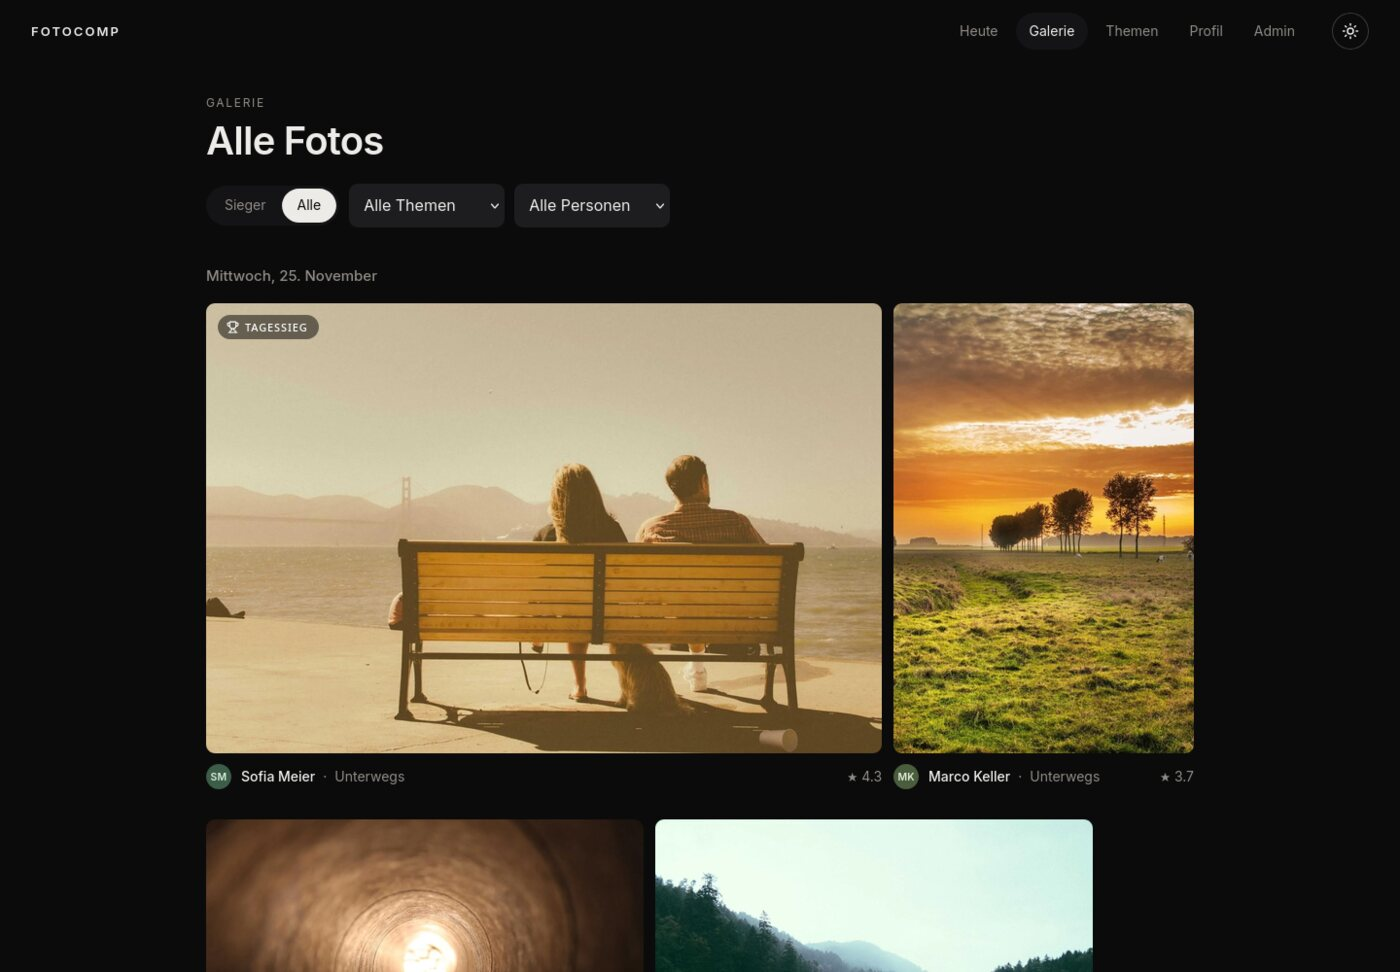
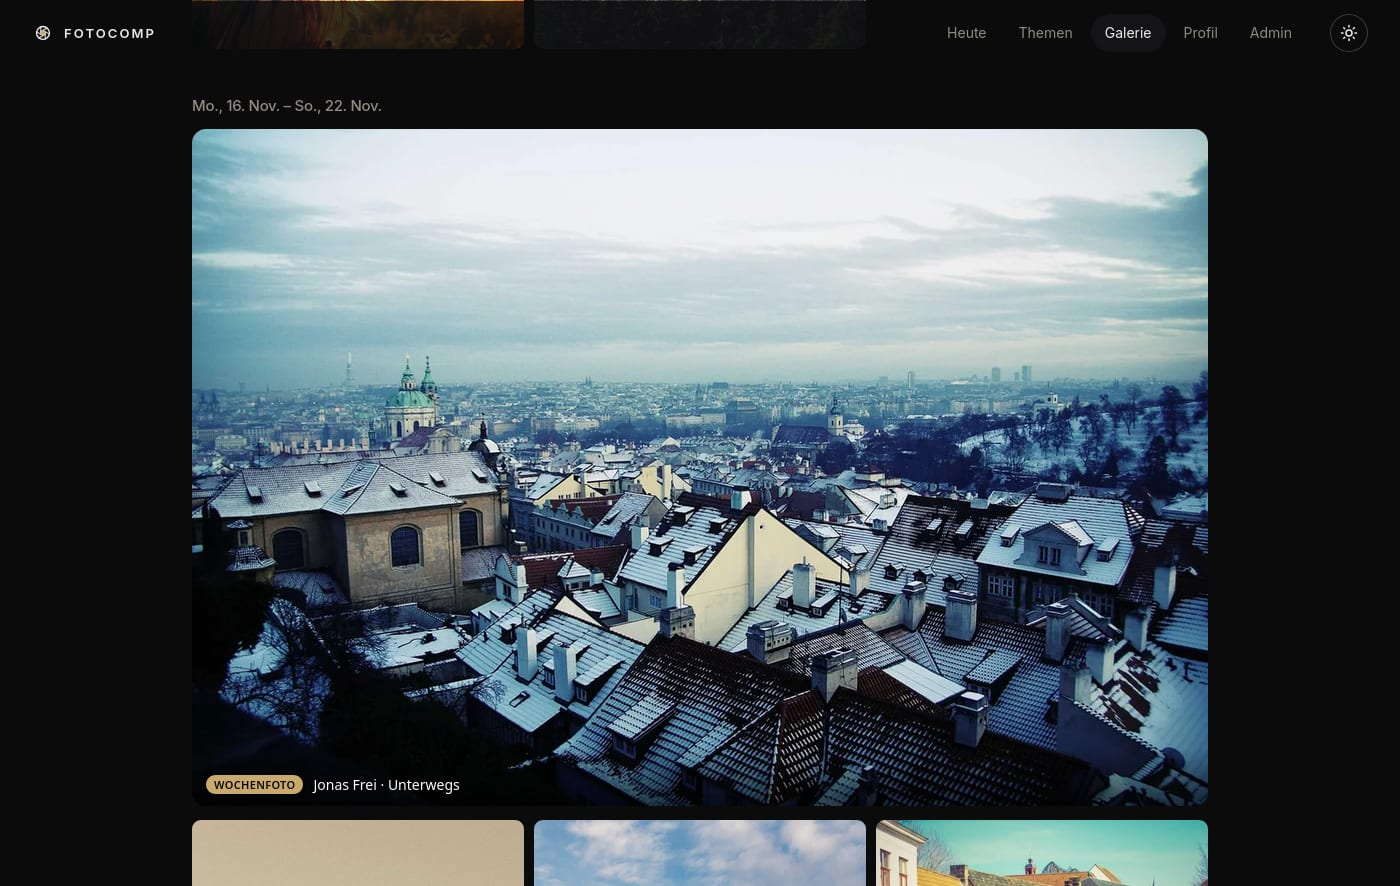
README und Screenshots zur neuen Benutzerführung

diff --git a/README.md b/README.md
@@ -6,12 +6,12 @@ Fotocomp ist eine kleine Web-App, die du selbst betreibst, zum Beispiel auf eine
 
 Das Ziel: regelmässig fotografieren, voneinander lernen und dabei Spass haben. Ohne Werbung, ohne Algorithmus, ohne dass eure Fotos irgendwo anders landen.
 
-![Galerie mit den Tagessiegern](docs/screenshots/galerie.jpg)
+![Galerie mit dem Wochenfoto und den schönsten Fotos](docs/screenshots/galerie.jpg)
 
 <p align="center">
-  <img src="docs/screenshots/mobil.png" alt="Einführung, Bewertung und Galerie auf dem Handy" width="760">
+  <img src="docs/screenshots/mobil.png" alt="Heute, Themenansicht und Galerie auf dem Handy" width="760">
 </p>
-<p align="center"><sub>Auf dem Handy: kurze Einführung für neue Mitglieder · abends bewerten · die besten Fotos in der Galerie</sub></p>
+<p align="center"><sub>Auf dem Handy: «Heute» mit Aufgaben und Neuigkeiten · das Thema mit Siegertreppchen · die schönsten Fotos in der Galerie</sub></p>
 
 ## So funktioniert es
 
@@ -20,13 +20,14 @@ Das Ziel: regelmässig fotografieren, voneinander lernen und dabei Spass haben. 
 | 05:00 – 20:00        | Jeder lädt sein **Foto des Tages** hoch (ersetzen bis 20:00 möglich)                              |
 | 20:00 – 05:00        | **Bewertung** mit 1–5 Sternen, anonym; das eigene Foto ist ausgenommen                            |
 | 05:00                | **Enthüllung**: Rangliste mit Namen, danach beginnt der nächste Tag                               |
-| Wochentag (z.B. So.) | **Wochenbewertung**: jeder wählt seine Top 3 der Woche, am nächsten Morgen gibt es das Wochenfoto |
+| Wochentag (z.B. Mo.) | **Wochenbewertung**: jeder wählt seine Top 3 der Woche, am nächsten Morgen gibt es das Wochenfoto |
 
 Hat bis 20:00 Uhr im Thema niemand ein Foto hochgeladen, gibt es nichts zu bewerten. Dann ist der Upload für den nächsten Tag sofort offen (ausser vor dem Wochenbewertungstag und am letzten Tag eines Themas).
 
-- **Themen** haben einen Titel und eine Beschreibung, dazu ein Enddatum oder sie laufen wiederkehrend. Mehrere Themen können parallel laufen, und jeder kann bei mehreren mitmachen. Auf der Startseite wechselt man oben per Reiter zwischen den eigenen Themen; ein Punkt zeigt, wo noch etwas zu tun ist.
+- **Heute** zeigt auf einen Blick, was zu tun ist und was es Neues gibt, nach Thema gruppiert: oben die Aufgaben (Foto hochladen, bewerten, Wochenfoto wählen, Feedback-Runde), deutlich markiert solange offen und mit Häkchen wenn erledigt, darunter Neuigkeiten wie Resultate, Wochenfoto und neues Feedback. Was seit dem letzten Besuch neu ist, trägt einen Punkt. Jede Zeile führt direkt an die richtige Stelle im Thema.
+- **Themen** haben einen Titel und eine Beschreibung, dazu ein Enddatum oder sie laufen wiederkehrend. Mehrere Themen können parallel laufen, und jeder kann bei mehreren mitmachen. Die eigenen Themen stehen oben als Reiter (ein Punkt zeigt, wo noch etwas offen ist), darunter lassen sich alle Themen durchsuchen. In der Themenansicht stehen Beschreibung, Teilnehmende und die eigenen Aufgaben, darunter das Siegertreppchen (Wochenfoto oder letzter Tag) und alle Fotos des Themas. Hochladen, Bewerten, Wochenfoto, Feedback-Runde und Details liegen je eine Ebene tiefer; dort wird auch mitgemacht oder ein Thema verlassen.
 - **Feedback**: Pro Foto lässt sich festlegen, ob Feedback willkommen ist. Feedback sieht nur der Fotograf. Zusätzlich gibt es **Feedback-Runden** pro Thema, automatisch (z.B. jeden Montag 19:00) oder von Hand gestartet.
-- **Galerie**: Standardmässig die Tagessieger und Wochenfotos aller Themen, mit Badge. Auf Wunsch alle Fotos, gefiltert nach Thema und/oder Person.
+- **Galerie** zum Staunen: die schönsten Fotos aller Themen – Wochenfotos, Tagessieger und alles ab 4 Sternen –, nach Woche gruppiert, das schönste jeder Woche gross.
 - **Als App auf dem Handy**: Fotocomp lässt sich auf iPhone und Android zum Home-Bildschirm hinzufügen und läuft dann ohne Browserleiste. Wer Fotocomp auf dem Handy im Browser öffnet, findet im Profil eine Anleitung passend zu seinem Gerät.
 - **Push-Mitteilungen und Mails**: Unter Profil → «Mitteilungen» wählt jeder pro Art (Hochladen, Bewertung, Resultat, Wochenfoto, Feedback-Runde, neues Feedback), ob sie per Push und/oder Mail kommt. Beim ersten Start der installierten App fragt Fotocomp einmal, ob Mitteilungen erlaubt sind. Ganz automatisch geht es nicht, weil iOS und Android dafür ein Antippen verlangen. Pro Zeitpunkt kommt höchstens eine Mail und eine Push-Mitteilung, auch bei mehreren Themen; Mails nie mehr als eine pro 30 Minuten. Push schweigt nachts (22–07 Uhr). In der Mail steht oben eine persönliche Zeile, etwa neues Feedback, ein eigener Tagessieg oder eine Serie. Die Texte stehen in [`src/lib/mail-texts.ts`](src/lib/mail-texts.ts). Auf dem iPhone braucht Push iOS 16.4 oder neuer, und Fotocomp muss auf dem Home-Bildschirm installiert sein.
 - **Einführung**: Neue Benutzer sehen nach der ersten Anmeldung eine kurze Einführung in Schritten (zum Wischen) und wählen am Schluss genau ein Thema. Weitere Themen kommen später unter «Themen» dazu. Nachlesen geht jederzeit unter Profil → «So funktioniert Fotocomp».
